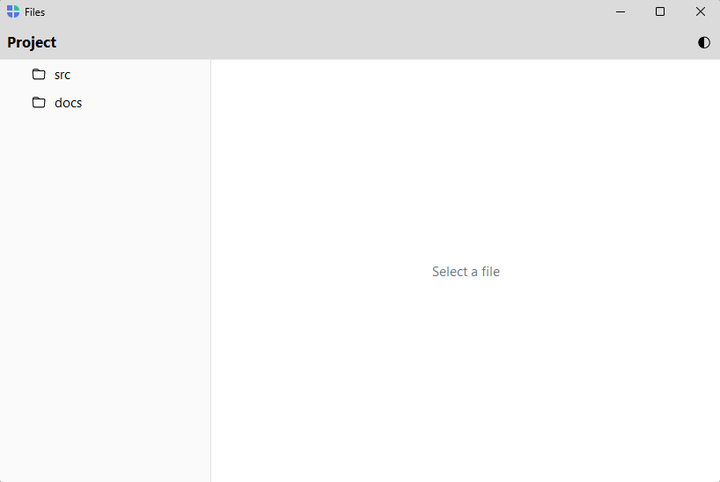
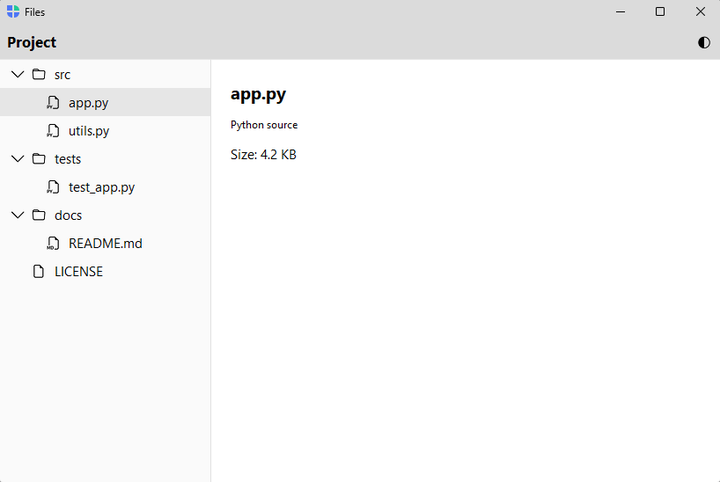
feat(appshell): list_nav/tree_nav return their widget; file-explorer tree demo
- list_nav now returns the ListView and tree_nav the Tree (was the internal
  provider), so callers can drive the view — read .selection, select_items,
  or expand/find/select on the tree.
- Rework the master-detail-tree pattern into a real file explorer: inline
  nodes=, opened expanded with a file selected via the returned Tree
  (expand_all + find + select). A lazy source-backed tree can't be expanded
  synchronously for a static demo, so the example uses inline nodes; the
  article still documents source= for large/dynamic hierarchies.
- Regenerated the tree hero (folders expanded, app.py selected + detail).

diff --git a/docs/examples/navigation/master_detail_tree.py b/docs/examples/navigation/master_detail_tree.py
@@ -1,33 +1,39 @@
 """Master–detail (tree) — a hierarchy drives a detail view (a file explorer).
 
-``tree_nav`` projects a flat adjacency-list source (each row names its parent) as
-a hierarchy; ``@shell.detail`` renders the selected node, received as a record
-dict. A folders → file-details browser is the archetypal tree screen. A tree opens
-with nothing selected, so a placeholder shows until a node is picked.
+``tree_nav`` builds the sidebar from a hierarchy and returns the `Tree` driving
+it; ``@shell.detail`` renders the selected node, received as a record dict. A
+folders → file-details browser is the archetypal tree screen. Here the hierarchy
+is declared inline with ``nodes=`` (each node a ``{"label", "icon", "children",
+...}`` spec; extra keys ride along as the node's data). For large or dynamic
+hierarchies, pass ``source=`` instead — a flat adjacency-list data source where
+each row names its parent.
+
+A tree opens with nothing selected (showing the ``placeholder``); we open it
+expanded with a file selected, like a real file explorer, by driving the
+returned `Tree`.
 """
 import bootstack as bs
-from bootstack.data import MemoryDataSource
 
-files = MemoryDataSource().load([
-    {"id": "src", "name": "src", "parent_id": None, "icon": "folder", "kind": "Folder", "size": ""},
-    {"id": "app", "name": "app.py", "parent_id": "src", "icon": "filetype-py", "kind": "Python source", "size": "4.2 KB"},
-    {"id": "utils", "name": "utils.py", "parent_id": "src", "icon": "filetype-py", "kind": "Python source", "size": "1.8 KB"},
-    {"id": "docs", "name": "docs", "parent_id": None, "icon": "folder", "kind": "Folder", "size": ""},
-    {"id": "readme", "name": "README.md", "parent_id": "docs", "icon": "filetype-md", "kind": "Markdown", "size": "920 B"},
-    {"id": "license", "name": "LICENSE", "parent_id": None, "icon": "file-earmark", "kind": "Text", "size": "1.1 KB"},
-])
+tree_nodes = [
+    {"label": "src", "icon": "folder", "children": [
+        {"label": "app.py", "icon": "filetype-py", "kind": "Python source", "size": "4.2 KB"},
+        {"label": "utils.py", "icon": "filetype-py", "kind": "Python source", "size": "1.8 KB"},
+    ]},
+    {"label": "tests", "icon": "folder", "children": [
+        {"label": "test_app.py", "icon": "filetype-py", "kind": "Python source", "size": "2.0 KB"},
+    ]},
+    {"label": "docs", "icon": "folder", "children": [
+        {"label": "README.md", "icon": "filetype-md", "kind": "Markdown", "size": "920 B"},
+    ]},
+    {"label": "LICENSE", "icon": "file-earmark", "kind": "Text", "size": "1.1 KB"},
+]
 
 with bs.AppShell(title="Files", size=(900, 580)) as shell:
     shell.commandbar.add_label("Project", font="heading-md")
     shell.commandbar.add_spacer()
     shell.commandbar.add_button(icon="circle-half", on_click=bs.toggle_theme)
 
-    shell.tree_nav(
-        source=files,
-        parent_field="parent_id",
-        label_field="name",
-        placeholder="Select a file",
-    )
+    tree = shell.tree_nav(nodes=tree_nodes, placeholder="Select a file")
 
     @shell.detail
     def show(node):
@@ -36,5 +42,11 @@ with bs.AppShell(title="Files", size=(900, 580)) as shell:
             bs.Label(node.get("kind", ""), font="caption")
             if node.get("size"):
                 bs.Label(f"Size: {node['size']}")
+
+    # Open expanded with a file selected, like a real file explorer.
+    tree.expand_all()
+    app = tree.find(lambda node: node.label == "app.py")
+    if app is not None:
+        tree.select(app)
 
 shell.run()

diff --git a/src/bootstack/widgets/appshell.py b/src/bootstack/widgets/appshell.py
@@ -150,15 +150,23 @@ class _Workspace:
         placeholder: str = "Select an item to view",
         chevron: bool = False,
     ) -> Any:
-        """Fill the workspace from a `DataSource` (flat master-detail)."""
+        """Fill the workspace from a `DataSource` (flat master-detail).
+
+        Returns the `ListView` driving the sidebar — use it to read `.selection`
+        or drive selection (`select_items`).
+        """
         return self._internal.list_nav(
             source, separator=separator, density=density,
             placeholder=placeholder, chevron=chevron,
-        )
+        ).nav
 
     def tree_nav(self, **kwargs: Any) -> Any:
-        """Fill the workspace from a hierarchy (tree master-detail)."""
-        return self._internal.tree_nav(**kwargs)
+        """Fill the workspace from a hierarchy (tree master-detail).
+
+        Returns the `Tree` driving the sidebar — use it to drive the view
+        (`expand`/`expand_all`/`collapse`/`select`/`find`).
+        """
+        return self._internal.tree_nav(**kwargs).tree
 
     def detail(self, fn: Callable[[dict], Any]) -> Callable[[dict], Any]:
         """Register the data-bound detail body (decorator)."""
@@ -471,15 +479,23 @@ class AppShell(AppConfigMixin, WindowControlsMixin, ChromeHostMixin, PublicWidge
         placeholder: str = "Select an item to view",
         chevron: bool = False,
     ) -> Any:
-        """Fill the implicit workspace from a `DataSource` (flat master-detail)."""
+        """Fill the implicit workspace from a `DataSource` (flat master-detail).
+
+        Returns the `ListView` driving the sidebar — use it to read `.selection`
+        or drive selection (`select_items`).
+        """
         return self._internal.list_nav(
             source, separator=separator, density=density,
             placeholder=placeholder, chevron=chevron,
-        )
+        ).nav
 
     def tree_nav(self, **kwargs: Any) -> Any:
-        """Fill the implicit workspace from a hierarchy (tree master-detail)."""
-        return self._internal.tree_nav(**kwargs)
+        """Fill the implicit workspace from a hierarchy (tree master-detail).
+
+        Returns the `Tree` driving the sidebar — use it to drive the view
+        (`expand`/`expand_all`/`collapse`/`select`/`find`).
+        """
+        return self._internal.tree_nav(**kwargs).tree
 
     def detail(self, fn: Callable[[dict], Any]) -> Callable[[dict], Any]:
         """Register the implicit workspace's data-bound detail body (decorator)."""

diff --git a/docs/screenshots/navigation.py b/docs/screenshots/navigation.py
@@ -86,19 +86,25 @@ def master_detail_list():
 
 
 def master_detail_tree():
-    files = MemoryDataSource().load([
-        {"id": "src", "name": "src", "parent_id": None, "icon": "folder", "kind": "Folder", "size": ""},
-        {"id": "app", "name": "app.py", "parent_id": "src", "icon": "filetype-py", "kind": "Python source", "size": "4.2 KB"},
-        {"id": "utils", "name": "utils.py", "parent_id": "src", "icon": "filetype-py", "kind": "Python source", "size": "1.8 KB"},
-        {"id": "docs", "name": "docs", "parent_id": None, "icon": "folder", "kind": "Folder", "size": ""},
-        {"id": "readme", "name": "README.md", "parent_id": "docs", "icon": "filetype-md", "kind": "Markdown", "size": "920 B"},
-    ])
+    tree_nodes = [
+        {"label": "src", "icon": "folder", "children": [
+            {"label": "app.py", "icon": "filetype-py", "kind": "Python source", "size": "4.2 KB"},
+            {"label": "utils.py", "icon": "filetype-py", "kind": "Python source", "size": "1.8 KB"},
+        ]},
+        {"label": "tests", "icon": "folder", "children": [
+            {"label": "test_app.py", "icon": "filetype-py", "kind": "Python source", "size": "2.0 KB"},
+        ]},
+        {"label": "docs", "icon": "folder", "children": [
+            {"label": "README.md", "icon": "filetype-md", "kind": "Markdown", "size": "920 B"},
+        ]},
+        {"label": "LICENSE", "icon": "file-earmark", "kind": "Text", "size": "1.1 KB"},
+    ]
     with bs.AppShell(title="Files", size=(820, 520)) as shell:
         shell._capture_full_window = True
         shell.commandbar.add_label("Project", font="heading-md")
         shell.commandbar.add_spacer()
         shell.commandbar.add_button(icon="circle-half", on_click=bs.toggle_theme)
-        shell.tree_nav(source=files, parent_field="parent_id", label_field="name", placeholder="Select a file")
+        tree = shell.tree_nav(nodes=tree_nodes, placeholder="Select a file")
 
         @shell.detail
         def show(node):
@@ -107,6 +113,11 @@ def master_detail_tree():
                 bs.Label(node.get("kind", ""), font="caption")
                 if node.get("size"):
                     bs.Label(f"Size: {node['size']}")
+
+        tree.expand_all()
+        app = tree.find(lambda node: node.label == "app.py")
+        if app is not None:
+            tree.select(app)
     shell.run()
 
 

diff --git a/docs/tasks/navigation/master-detail-tree.rst b/docs/tasks/navigation/master-detail-tree.rst
@@ -16,22 +16,41 @@ but the records nest under parents.
 How it works
 ------------
 
-`tree_nav(source=, parent_field=, label_field=)` projects a **flat adjacency-list**
-source — each row names its parent — as a hierarchy. Decorate a builder with
-``@shell.detail`` to render the selected node, received as a record dict
-(its label is ``text``). A tree opens with nothing selected, so a ``placeholder``
-shows in the content area until a node is picked.
+`tree_nav` builds the sidebar from a hierarchy and **returns the** `Tree`
+**driving it**. Decorate a builder with ``@shell.detail`` to render the selected
+node, received as a record dict (its label is ``text``). A tree opens with
+nothing selected, so a ``placeholder`` shows in the content area until a node is
+picked.
+
+Declare the hierarchy inline with ``nodes=`` (each a ``{"label", "icon",
+"children", ...}`` spec; extra keys ride along as the node's data):
 
 .. code-block:: python
 
-   shell.tree_nav(source=files, parent_field="parent_id", label_field="name")
+   tree = shell.tree_nav(nodes=[
+       {"label": "src", "icon": "folder", "children": [
+           {"label": "app.py", "icon": "filetype-py", "size": "4.2 KB"},
+       ]},
+   ])
 
    @shell.detail
    def show(node):
        bs.Label(node["text"], font="heading-lg")
 
-Nodes can also be declared inline with ``tree_nav(nodes=[...])`` when the
-hierarchy is small and static rather than backed by a data source.
+For large or dynamic hierarchies, pass ``source=`` instead — a flat
+adjacency-list :doc:`data source </reference/data-sources>` where each row names
+its parent (``tree_nav(source=files, parent_field="parent_id", label_field="name")``);
+the tree then loads each branch lazily as it expands.
+
+Because ``tree_nav`` hands back the `Tree`, you can drive the view — the file
+explorer above opens expanded with a file selected:
+
+.. code-block:: python
+
+   tree.expand_all()
+   app = tree.find(lambda node: node.label == "app.py")
+   if app is not None:
+       tree.select(app)
 
 Example
 -------